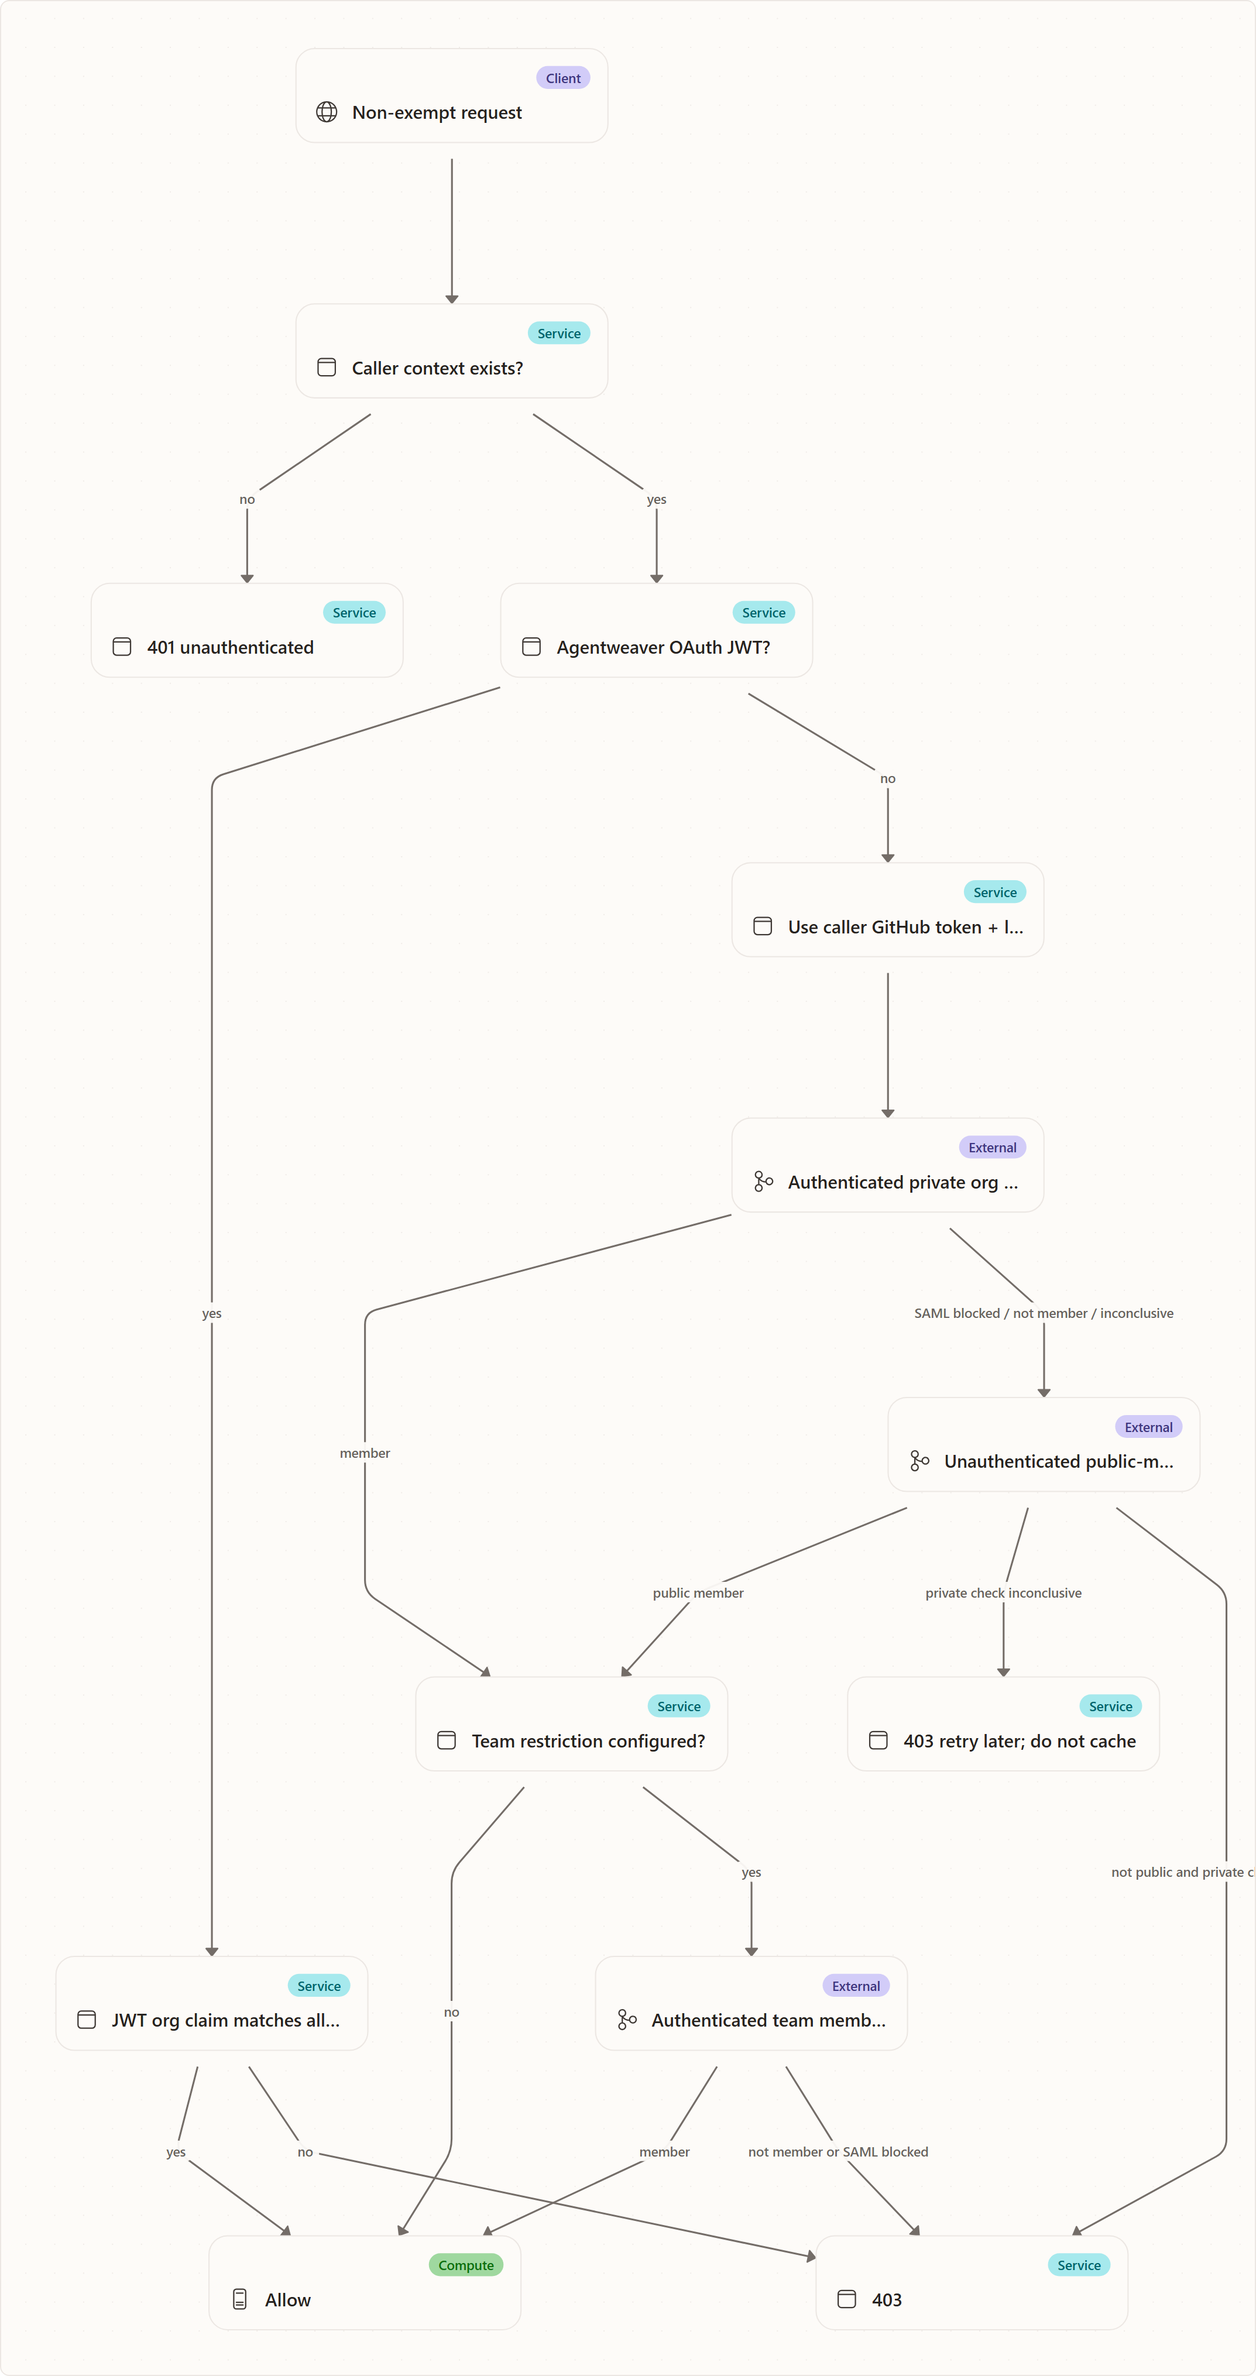
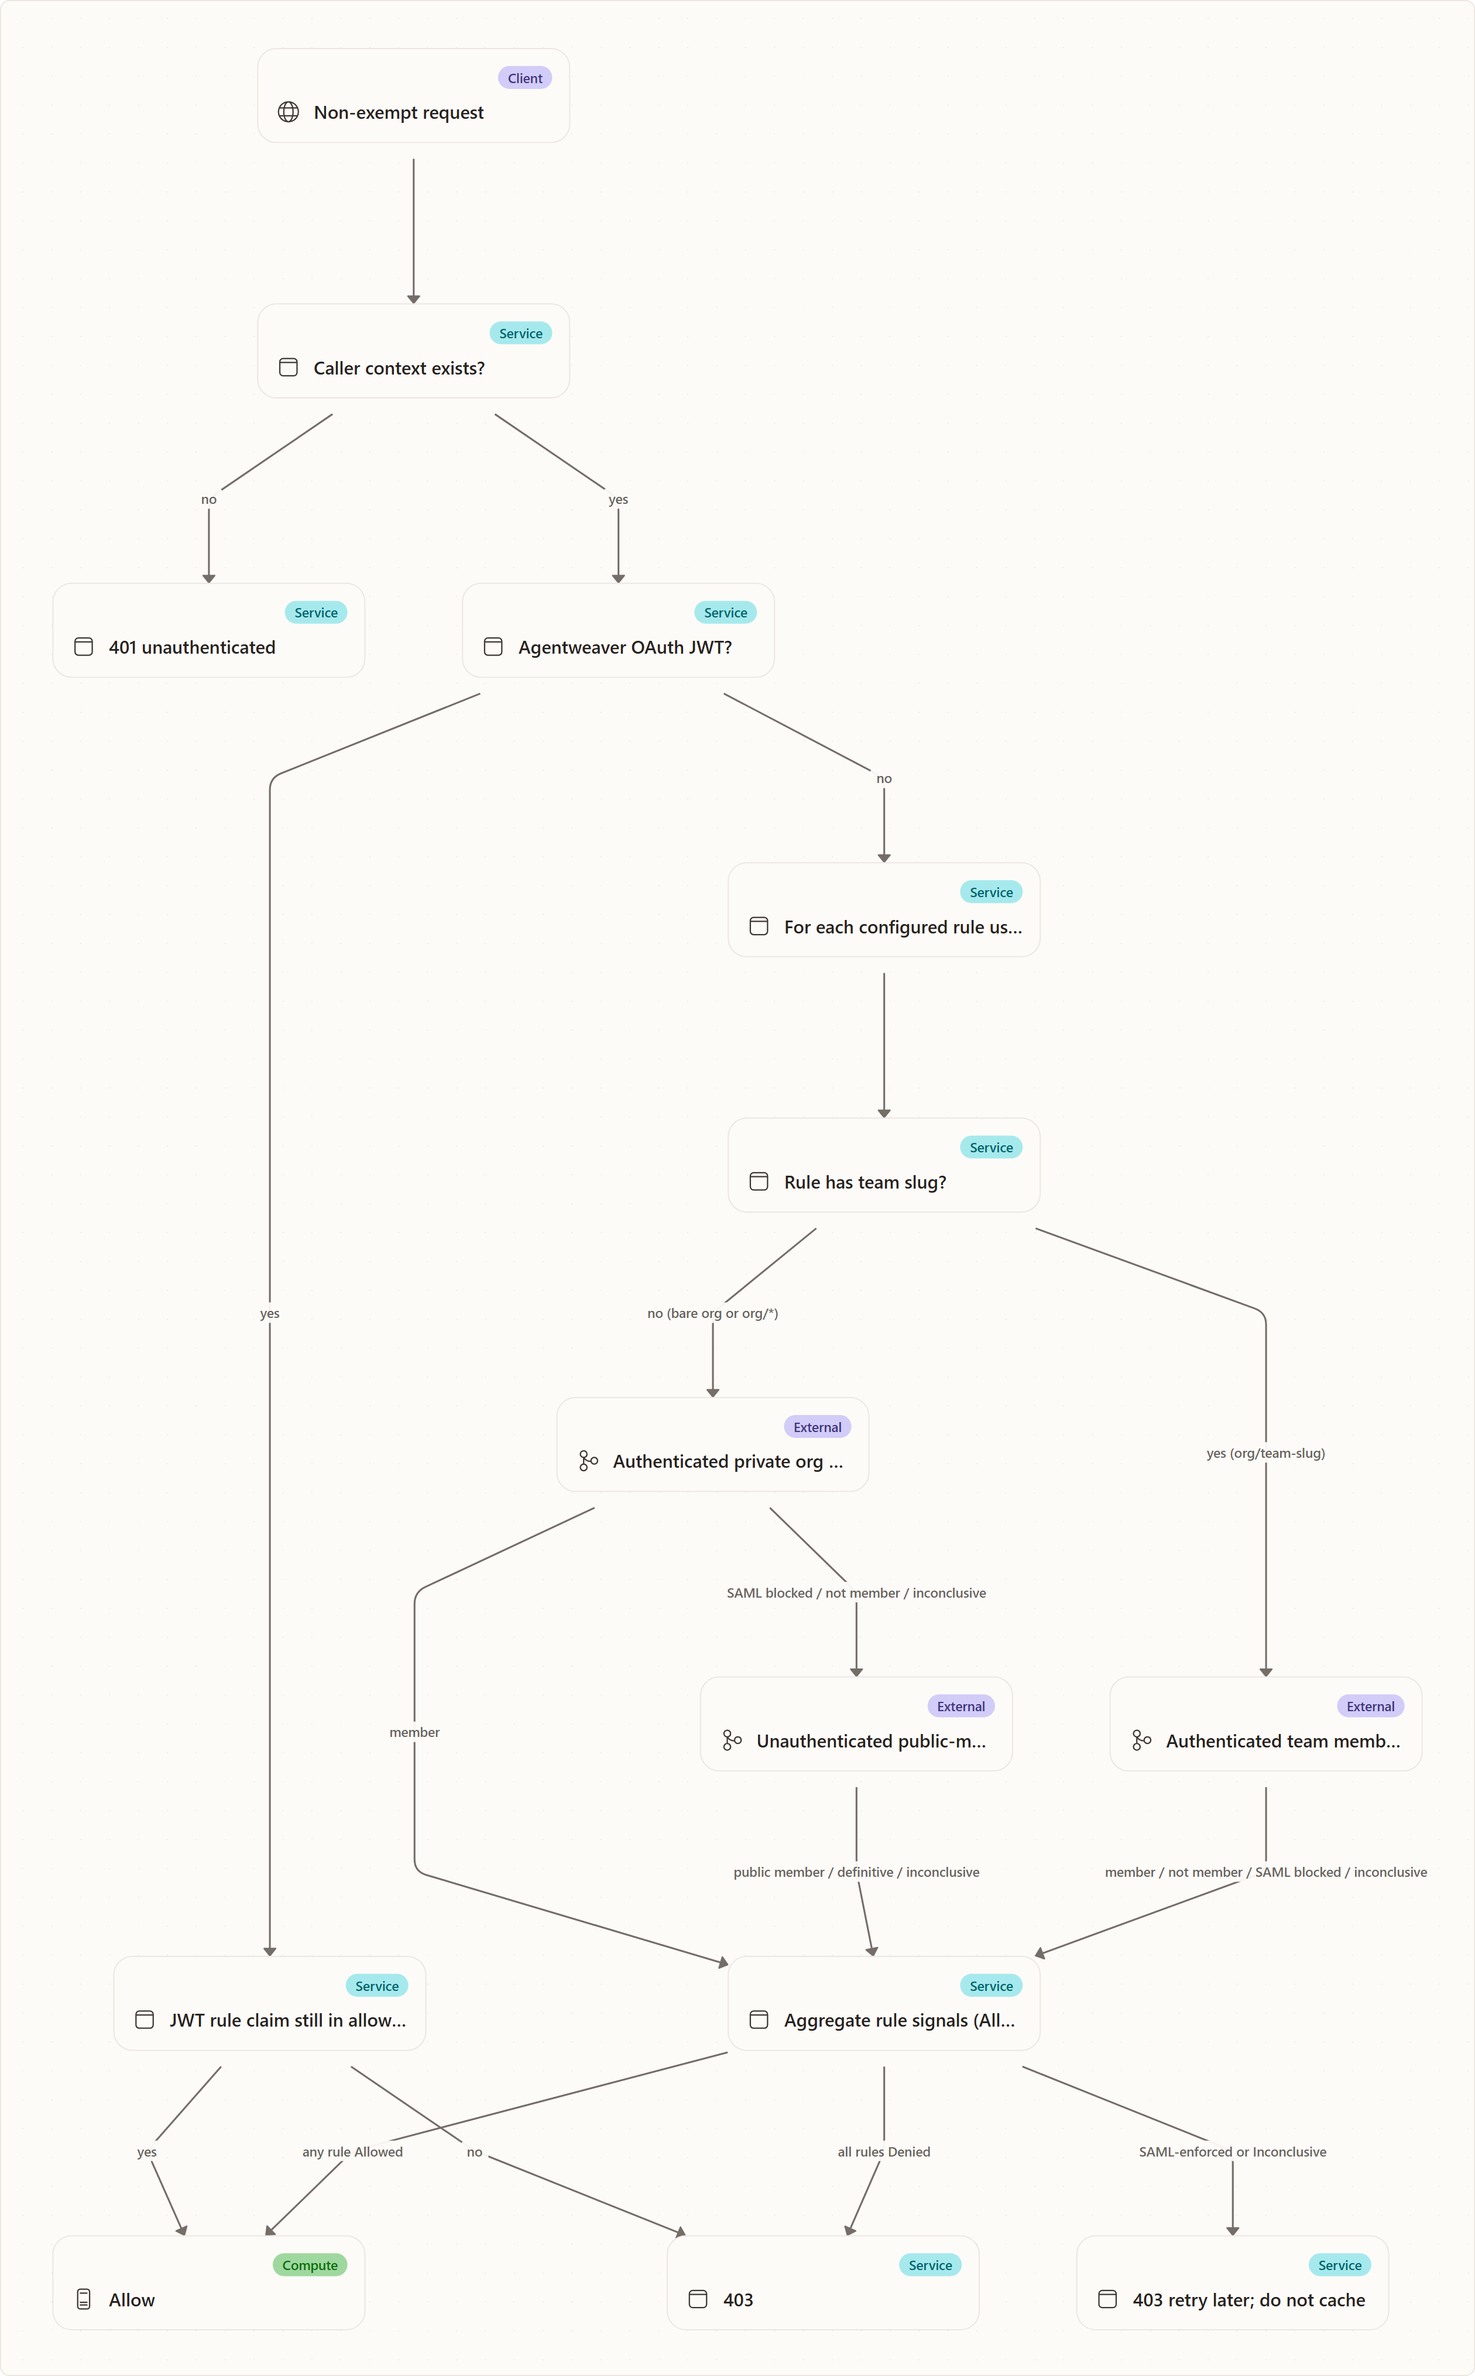
docs(auth): update deep-dive to describe team-membership rule-list model
PR #631 (shipped in v0.13.0) generalized GitHub org authz from a single-org + single-team AND-restriction to a mixed OR-list of rules where each rule is org, org/*, or org/team-slug. The deep-dive prose and fig3 flowchart still described the old two-tier model.

This change syncs the docs:

- Rewrites the `GitHub org authorization and the SAML nuance` intro to describe the rule syntax (org / org/* / org/team-slug), defensive team-slug normalization (e.g. `Azure/AKS PM` -> `azure/aks-pm`), and the OR-across-rules admission model.

- Reframes the JWT fast-path: the signed `org` claim now carries the canonical matched rule string and is re-checked against the current allow-list on every request (anti-grandfathering).

- Rewrites `Result semantics` to describe per-rule signals aggregated with precedence Allowed > SAML-enforced > Inconclusive > Denied.

- Rewrites `Invariants to preserve` to cover the new rule tokenizer, team-slug normalization + warning log, rule-string JWT claim, aggregation precedence, and the fact that team-scoped rules have no unauthenticated public-membership fallback.

- Notes that legacy `Auth:GitHub:AllowedTeam` is now a deprecated OR'd-in compat shim (semantic changed from AND to OR).

- Regenerates `docs/diagrams/auth-security-fig3.png` from the updated JSON source (via `npm run docs:render-diagrams`) to match the new flow.

docs/guide/configuration.md was already correct and is intentionally untouched.
[…]

diff --git a/docs/deep-dive/auth-security.md b/docs/deep-dive/auth-security.md
@@ -5,13 +5,13 @@
 Agentweaver has three related but distinct security jobs:
 
 1. **Know who is calling.** A request must carry a bearer credential that can be mapped to a GitHub user or an Agentweaver-issued OAuth identity.
-2. **Know whether that user is allowed.** Most non-bootstrap surfaces are restricted to members of a configured GitHub organization, usually `microsoft`, and optionally a team.
+2. **Know whether that user is allowed.** Most non-bootstrap surfaces are restricted to callers who match at least one of a configured list of allow-rules (each rule is either a bare GitHub org, or an org + specific team).
 3. **Let MCP clients authenticate without learning GitHub secrets.** Agentweaver acts as an OAuth 2.1 Authorization Server for MCP clients. GitHub remains the human identity provider; Agentweaver mints short-lived tokens for its own MCP resource.
 
 The design deliberately separates **identity proof** from **authorization policy**:
 
 - GitHub proves the user's identity and can prove org/team membership when GitHub's APIs allow it.
-- Agentweaver enforces local invariants: allowed org, token lifetime, redirect policy, PKCE, refresh-token rotation, revocation, and middleware exemptions.
+- Agentweaver enforces local invariants: the configured allow-rule list, token lifetime, redirect policy, PKCE, refresh-token rotation, revocation, and middleware exemptions.
 - MCP clients receive Agentweaver credentials, not GitHub credentials.
 
 The important rebuild principle is: **never trust a client merely because it reached a route**. Each route should be either explicitly public bootstrap/discovery, or it should pass through bearer-token authentication and org authorization.
@@ -48,7 +48,7 @@ Where this lives:
 
 ## Architecture at a glance
 
-Every request crosses a network-policy boundary into the gateway, then passes through two ordered middlewares: `GitHubTokenAuthMiddleware` resolves identity (Agentweaver JWT validated offline against the `jti` denylist, or a raw GitHub token validated via `GET /user` and cached), and `GitHubOrgAuthorizationMiddleware` enforces org/team membership before any protected route runs. Browser sign-in and the MCP OAuth flow both terminate at GitHub as the human identity provider.
+Every request crosses a network-policy boundary into the gateway, then passes through two ordered middlewares: `GitHubTokenAuthMiddleware` resolves identity (Agentweaver JWT validated offline against the `jti` denylist, or a raw GitHub token validated via `GET /user` and cached), and `GitHubOrgAuthorizationMiddleware` enforces the configured allow-rule list before any protected route runs. Browser sign-in and the MCP OAuth flow both terminate at GitHub as the human identity provider.
 
 ![Architecture at a glance: Browser web UI, MCP client, Direct API caller, default-deny + allowlist NetworkPolicies, Istio gateway / HTTPRoute, AuthEndpoints GitHub sign-in, OAuth 2.1 Authorization Server, GitHubTokenAuthMiddleware, GitHubOrgAuthorizationMiddleware, Protected /api routes, Bearer valid? JWT jti / GitHub /user, Org + team membership, …](../diagrams/auth-security-fig1.png)
 
@@ -162,21 +162,25 @@ Where this lives:
 
 ## GitHub org authorization and the SAML nuance
 
-Identity answers "who are you?" Authorization answers "are you allowed to use this Agentweaver deployment?" For hosted Agentweaver, the primary policy is membership in the configured GitHub organization, usually `microsoft`, with an optional team restriction.
+Identity answers "who are you?" Authorization answers "are you allowed to use this Agentweaver deployment?" For hosted Agentweaver, the primary policy is matching at least one entry in a configured allow-rule list. Each rule is one of:
+
+- **`org`** — a bare GitHub org name. Satisfied by org membership (any tier: public or private).
+- **`org/*`** — an explicit "any team in this org" wildcard. Semantically identical to a bare `org` rule (org membership is sufficient); accepted for readability.
+- **`org/team-slug`** — a specific team within an org. Satisfied only if the caller is a member of that exact team. Team-slug values are defensively normalized (lowercased and space-to-hyphen) so display-name-ish literals like `Azure/AKS PM` still probe the correct GitHub team endpoint (`azure/aks-pm`); a warning is logged whenever normalization changes the input.
+
+A caller is admitted if they satisfy **any one** rule in the list (pure OR across rules). This replaces an earlier two-tier model (single allowed org plus an AND-restricted team); the legacy `Auth:GitHub:AllowedTeam` key is still honored as a deprecated compat shim that is folded into the rule list as an additional OR'd entry (its semantics have therefore changed from AND-restriction to OR-rule — do not rely on it in new deployments).
 
 The authorization middleware runs after bearer authentication. It handles two caller classes differently:
 
-- **Agentweaver OAuth JWT callers:** trust the signed `org` claim only if it equals the configured allowed org. This is safe because org membership was checked when the Authorization Server issued the token and is rechecked on refresh when possible.
-- **Raw GitHub token callers:** use the caller's GitHub token to ask GitHub whether the login is in the allowed org/team.
+- **Agentweaver OAuth JWT callers:** the signed `org` claim carries the canonical **rule string** that was satisfied at token-issuance time (for example `azure/aks-pm` or `microsoft`). The middleware trusts the JWT only if that exact rule is still present in the current allow-rule list (case-insensitive). This prevents grandfathering: a JWT minted while `microsoft` was allowed cannot satisfy a later configuration that only allows `azure/aks-pm`, and vice versa. Org membership was itself checked when the Authorization Server issued the token and is re-checked on refresh via the same rule-resolution path.
+- **Raw GitHub token callers:** use the caller's GitHub token to ask GitHub whether the login satisfies any rule. Rules are evaluated in order; the first `Allowed` short-circuits.
 
-![GitHub org authorization and the SAML nuance: Non-exempt request, Caller context exists?, 401 unauthenticated, Agentweaver OAuth JWT?, JWT org claim matches allowed org?, Allow, 403, Use caller GitHub token + login, Authenticated private org membership check, Team restriction configured?, Unauthenticated public-membership check, 403 retry later; do not cache, …](../diagrams/auth-security-fig3.png)
+![GitHub org authorization and the SAML nuance: Non-exempt request, Caller context exists?, 401 unauthenticated, Agentweaver OAuth JWT?, JWT rule claim still in allow-list?, Allow, 403, For each configured rule (org or org/team) using caller GitHub token, Authenticated private org membership check, Rule has team slug?, Team membership check, Unauthenticated public-membership check, 403 retry later; do not cache, …](../diagrams/auth-security-fig3.png)
 
 <!-- Rendered from ../diagrams/src/auth-security-fig3.json by docs/diagram-renderer +
      Playwright (Fluent-styled React Flow), replacing a Mermaid flowchart.
      Edit the JSON, then run `npm run docs:render-diagrams` and commit the
      regenerated PNG + .hash.txt. -->
-
-### The SAML-enforced org problem
 
 For SAML-enforced GitHub organizations, an authenticated API request can fail even for a real member if the token has not been SAML-authorized for that org. This matters because the normal private membership endpoint may return a SAML-related failure instead of a simple "member" or "not member" answer.
 
@@ -191,20 +195,27 @@ The unavoidable trade-off is that private members whose token cannot prove membe
 
 ### Result semantics
 
-- **Allowed:** GitHub proved org membership and, if configured, team membership.
-- **Denied:** GitHub gave a definitive non-member answer.
-- **Org access not granted:** the token is valid but cannot access the org/team private API, commonly because SAML SSO was not authorized.
-- **Inconclusive:** GitHub could not answer reliably because of rate limiting, token failure, network failure, or server error.
+Each rule in the allow-list is resolved independently and produces a per-rule signal (`Allowed`, `Denied`, `OrgAccessNotGranted` / SAML-enforced, or `Inconclusive`). Signals are then aggregated across the list with precedence **Allowed > SAML-enforced > Inconclusive > Denied**:
 
-Only stable answers are cached briefly. Inconclusive answers are never cached, because caching them would turn a transient GitHub problem into a durable denial.
+- **Allowed:** at least one rule resolved to `Allowed` — GitHub proved org membership and, for team-scoped rules, team membership as well.
+- **Denied:** every rule resolved to `Denied` — GitHub gave a definitive non-member answer for each.
+- **Org access not granted:** no rule was `Allowed`, and at least one rule hit a token that could not access the org/team private API (commonly because SAML SSO was not authorized).
+- **Inconclusive:** no rule was `Allowed` or SAML-enforced, and at least one rule could not be answered reliably because of rate limiting, token failure, network failure, or server error.
+
+Only stable per-rule answers contribute to a cacheable overall result. Inconclusive answers are never cached, because caching them would turn a transient GitHub problem into a durable denial. Note that team-scoped rules have no unauthenticated public-membership fallback (GitHub does not expose team membership publicly); a SAML-blocked token evaluating a team-scoped rule can only produce `OrgAccessNotGranted` or `Inconclusive`, never a spurious `Allowed`.
 
 ### Invariants to preserve when rebuilding
 
-- Fail closed if `AllowedOrg` is missing on non-exempt routes.
+- Fail closed if the allow-rule list is missing or empty on non-exempt routes.
+- Parse rules using the shared tokenizer (split, trim, dedupe case-insensitively) and then extract an optional `/team-slug` (or `/*`) suffix; treat unparseable entries as configuration errors, not as silent org-only fallbacks.
+- Defensively normalize team-slug values (lowercase + space-to-hyphen) so display-name-shaped literals still probe the right GitHub endpoint, and log a warning whenever normalization actually changed the input.
+- Aggregate across rules with precedence **Allowed > SAML-enforced > Inconclusive > Denied**; do not let a single `Denied` rule mask a SAML-enforced signal from another rule.
 - Do not let HTTP redirects from GitHub turn into accidental success; membership probes should not auto-follow GitHub redirects.
 - Detect rate limits before classifying `403` as SAML/org denial.
-- Never cache inconclusive authorization decisions.
-- If using JWT org claims, ensure the Authorization Server really enforced org membership before issuing the token.
+- Never cache inconclusive authorization decisions (per-rule or aggregate).
+- Team-scoped rules have no unauthenticated public-membership fallback — do not invent one.
+- If using JWT org claims, ensure the Authorization Server stamps the canonical **rule string** that was satisfied at issuance (not just an org name), and that the middleware re-checks that rule string against the current allow-list on every request (case-insensitive) so config demotions or promotions cannot grandfather in stale JWTs.
+- Treat the legacy `Auth:GitHub:AllowedTeam` key as a deprecated OR'd-in compat shim only; new deployments should express team scoping directly in the rule list.
 
 Where this lives:
 
@@ -215,13 +226,13 @@ Where this lives:
 
 ## Resource ownership authorization
 
-Org authorization answers only whether a caller may use this Agentweaver deployment. It does not grant access to every resource in the deployment. Project, team, run, backlog, workspace, workflow, and memory endpoints still enforce resource ownership in the handler or service layer, typically by loading the resource and checking `caller.Owns(...)` before returning or mutating it.
+Org authorization answers only whether a caller may use this Agentweaver deployment (satisfies at least one configured allow-rule). It does not grant access to every resource in the deployment. Project, team, run, backlog, workspace, workflow, and memory endpoints still enforce resource ownership in the handler or service layer, typically by loading the resource and checking `caller.Owns(...)` before returning or mutating it.
 
 The ownership model is intentionally username-neutral: there is no built-in superuser role derived from a GitHub login, and no GitHub username such as `admin` receives special cross-user access. A caller can act on a resource only when the resource owner matches the authenticated caller identity (or when a feature explicitly creates a resource on behalf of that caller). Non-owners receive `403 Forbidden` or, for existence-hiding reads, `404 Not Found`.
 
 ### Invariants to preserve when rebuilding
 
-- Treat org/team membership as deployment admission, not resource authorization.
+- Treat allow-rule matching as deployment admission, not resource authorization.
 - Use `caller.Owns(...)` or the equivalent owner comparison for every user-owned project, run, team, backlog, and memory resource.
 - Do not introduce username-based superuser bypasses; elevated operational paths should be explicit roles or separate administrative capabilities, not magic GitHub logins.
 
